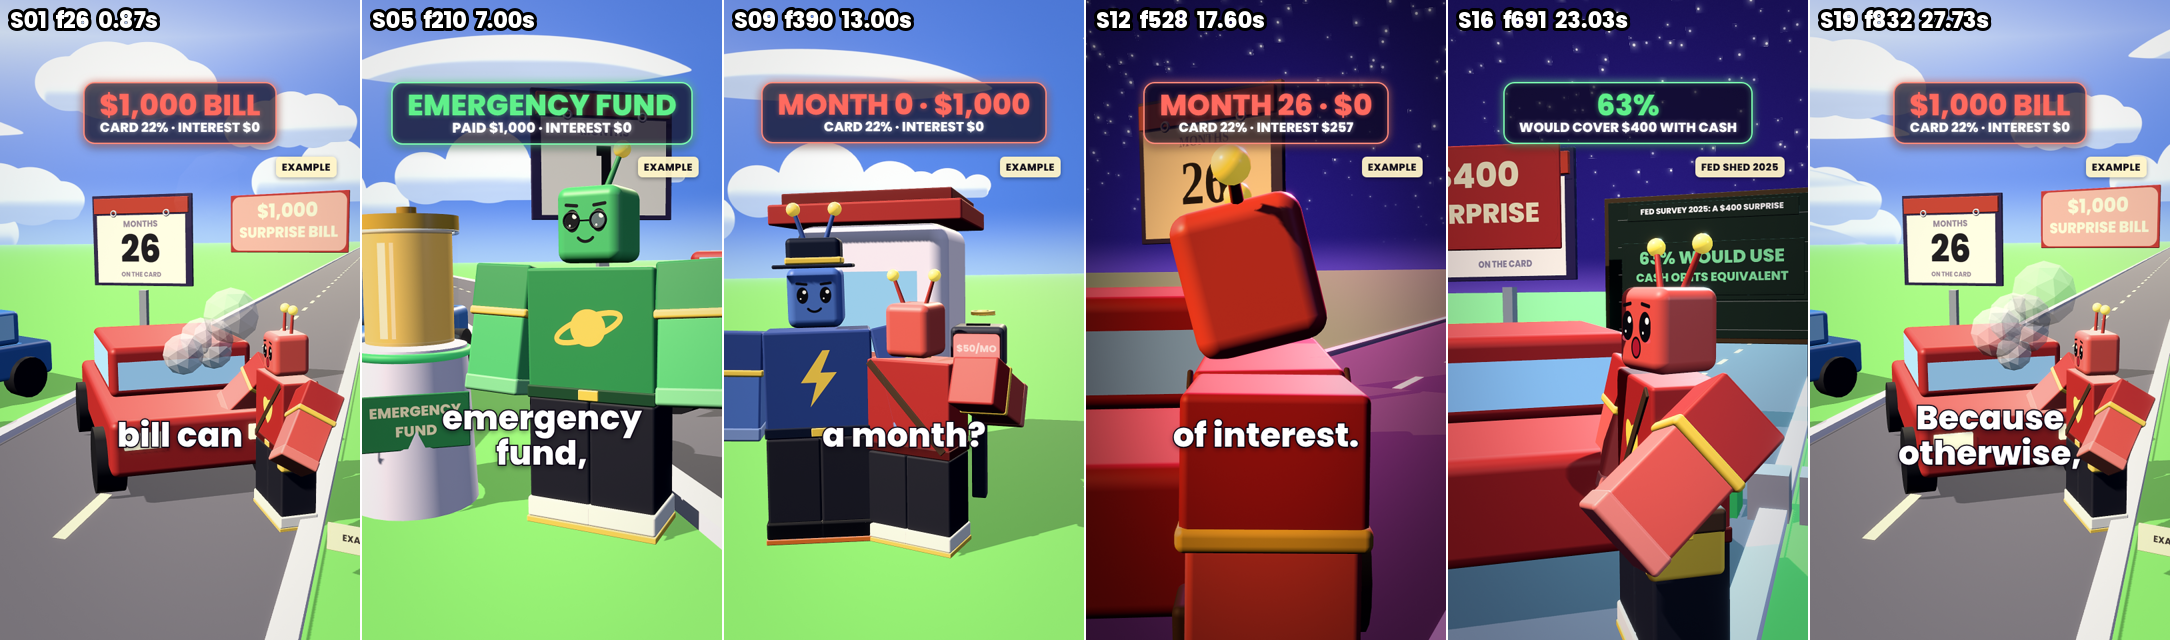
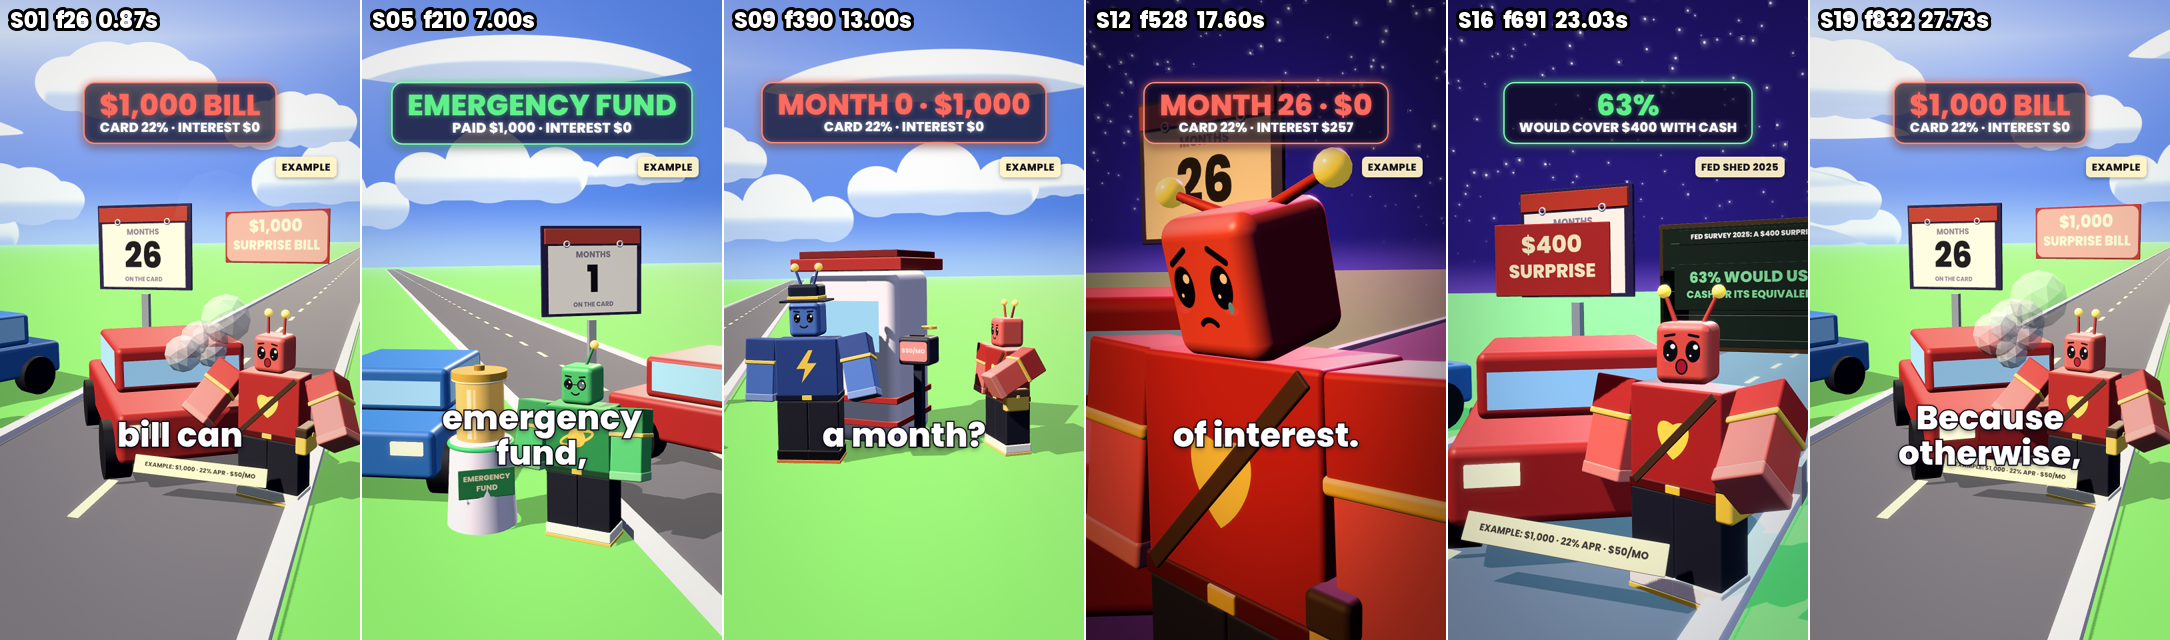
finance F2: surprise-bill stills sheet (round 2) + S16 frames the whole survey board
Claude-Session: https://claude.ai/code/session_01D7r6b9GaQTXrUiCNiGbAsa

diff --git a/finance/render-pc/src/fin/surprise.tsx b/finance/render-pc/src/fin/surprise.tsx
@@ -69,7 +69,7 @@ const LENS: Record<string, Omit<FinShot, "id" | "a" | "b">> = {
   S13: fitted([[BOARD[0] - 1.0, 0.9, BOARD[2]], [BOARD[0] + 1.0, 2.25, BOARD[2]]], 4, 0.05, D.S13, { mood: "store", sky: true }),
   S14: manual([BLOCKS[0] - 0.55, 0.75, BLOCKS[2]], 6, 2.0, 0.12, { mood: "store", sky: true }),
   S15: fitted([[BLOCKS[0] - 1.6, 0, BLOCKS[2]], [BLOCKS[0] + 1.6, 0.9, BLOCKS[2]]], 0, 0.25, D.S15, { mood: "store", sky: true }),
-  S16: fitted([...sp(true), [P_SP[0] - 0.95, 1.95, P_SP[2] + 0.3], [P_SP[0] - 0.95, 1.45, P_SP[2] + 0.3]], 24, 0.05, D.S16, { mood: "store", sky: true, face: 0.5 }),
+  S16: fitted([...sp(true), [P_SP[0] - 0.95, 1.95, P_SP[2] + 0.3], [P_SP[0] - 0.95, 1.45, P_SP[2] + 0.3], [BOARD[0] + 1.0, 2.0, BOARD[2]]], 24, 0.05, D.S16, { mood: "store", sky: true, face: 0.5 }),
   S17: fitted([...body(P_SV, S.saver, true), [JAR_P[0], 0.8, JAR_P[2]]], -16, 0.08, D.S17, { mood: "ending", sky: true }),
   S18: fitted([...body([-0.6, 0, 0.9], S.saver), ...body([0.35, 0, 0.9], S.spender)], 4, 0.12, D.S18, { mood: "ending", sky: true }),
   S19: fitted([...sp(), [CAR[0] - 0.9, 0, CAR[2]], [CAR[0] + 0.9, 1.4, CAR[2]], [P_SP[0], 2.3, P_SP[2]]], 18, 0.18, D.S19, { mood: "earth", sky: true, fov: 54 }),
